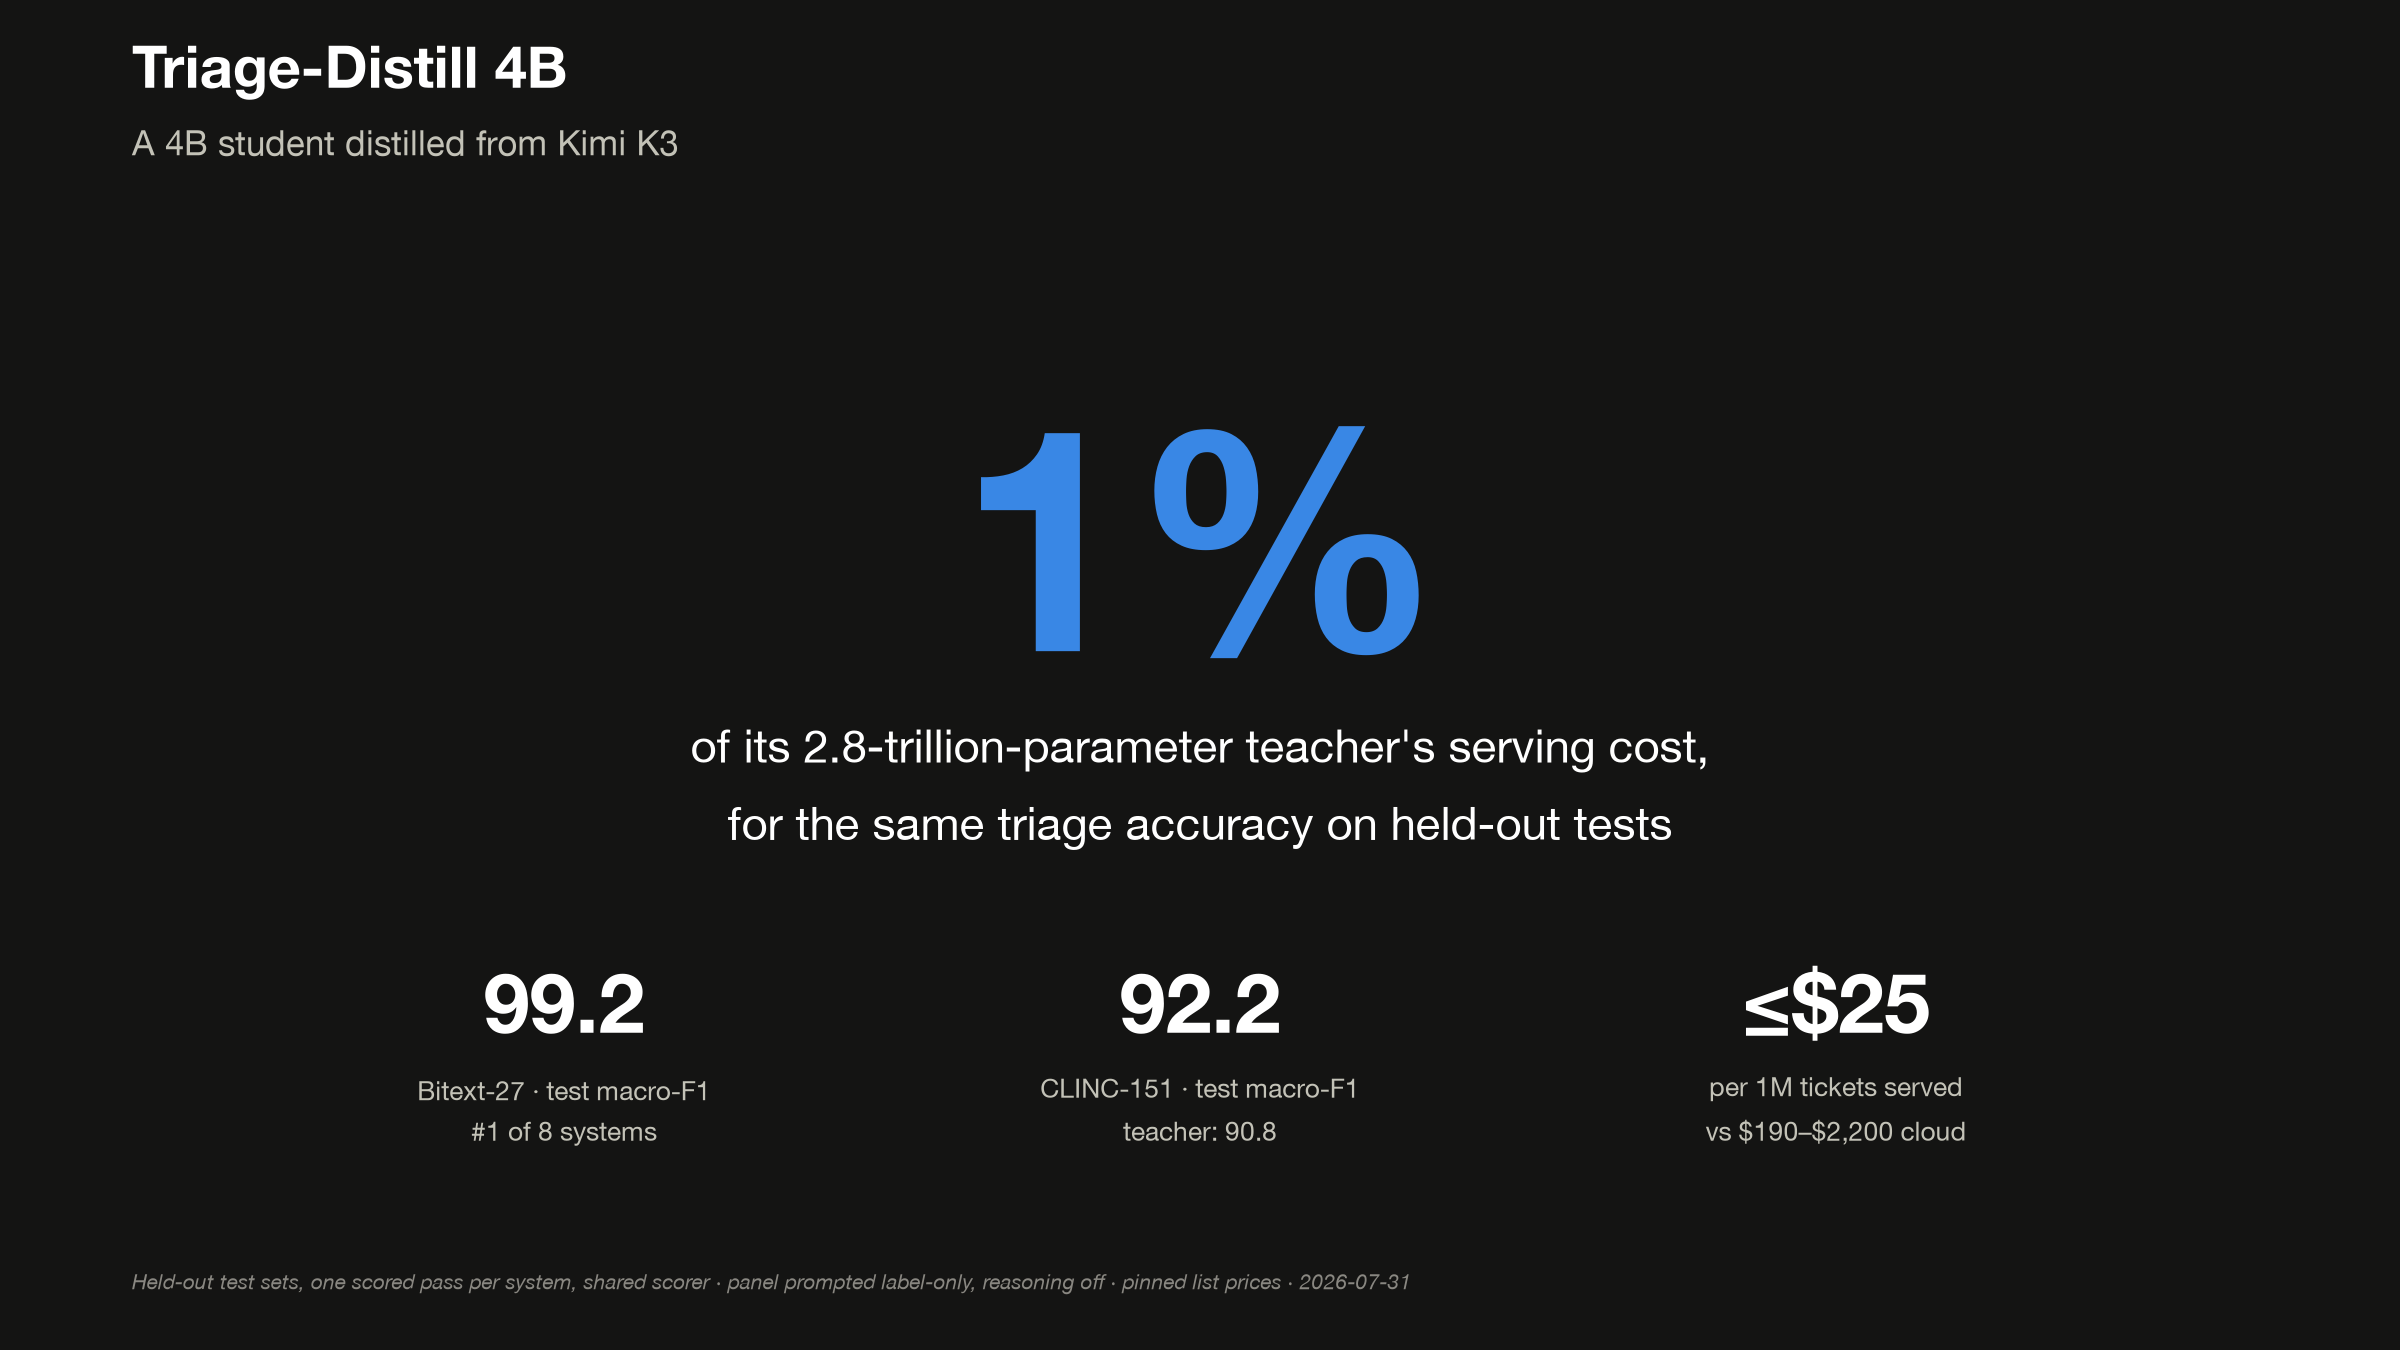
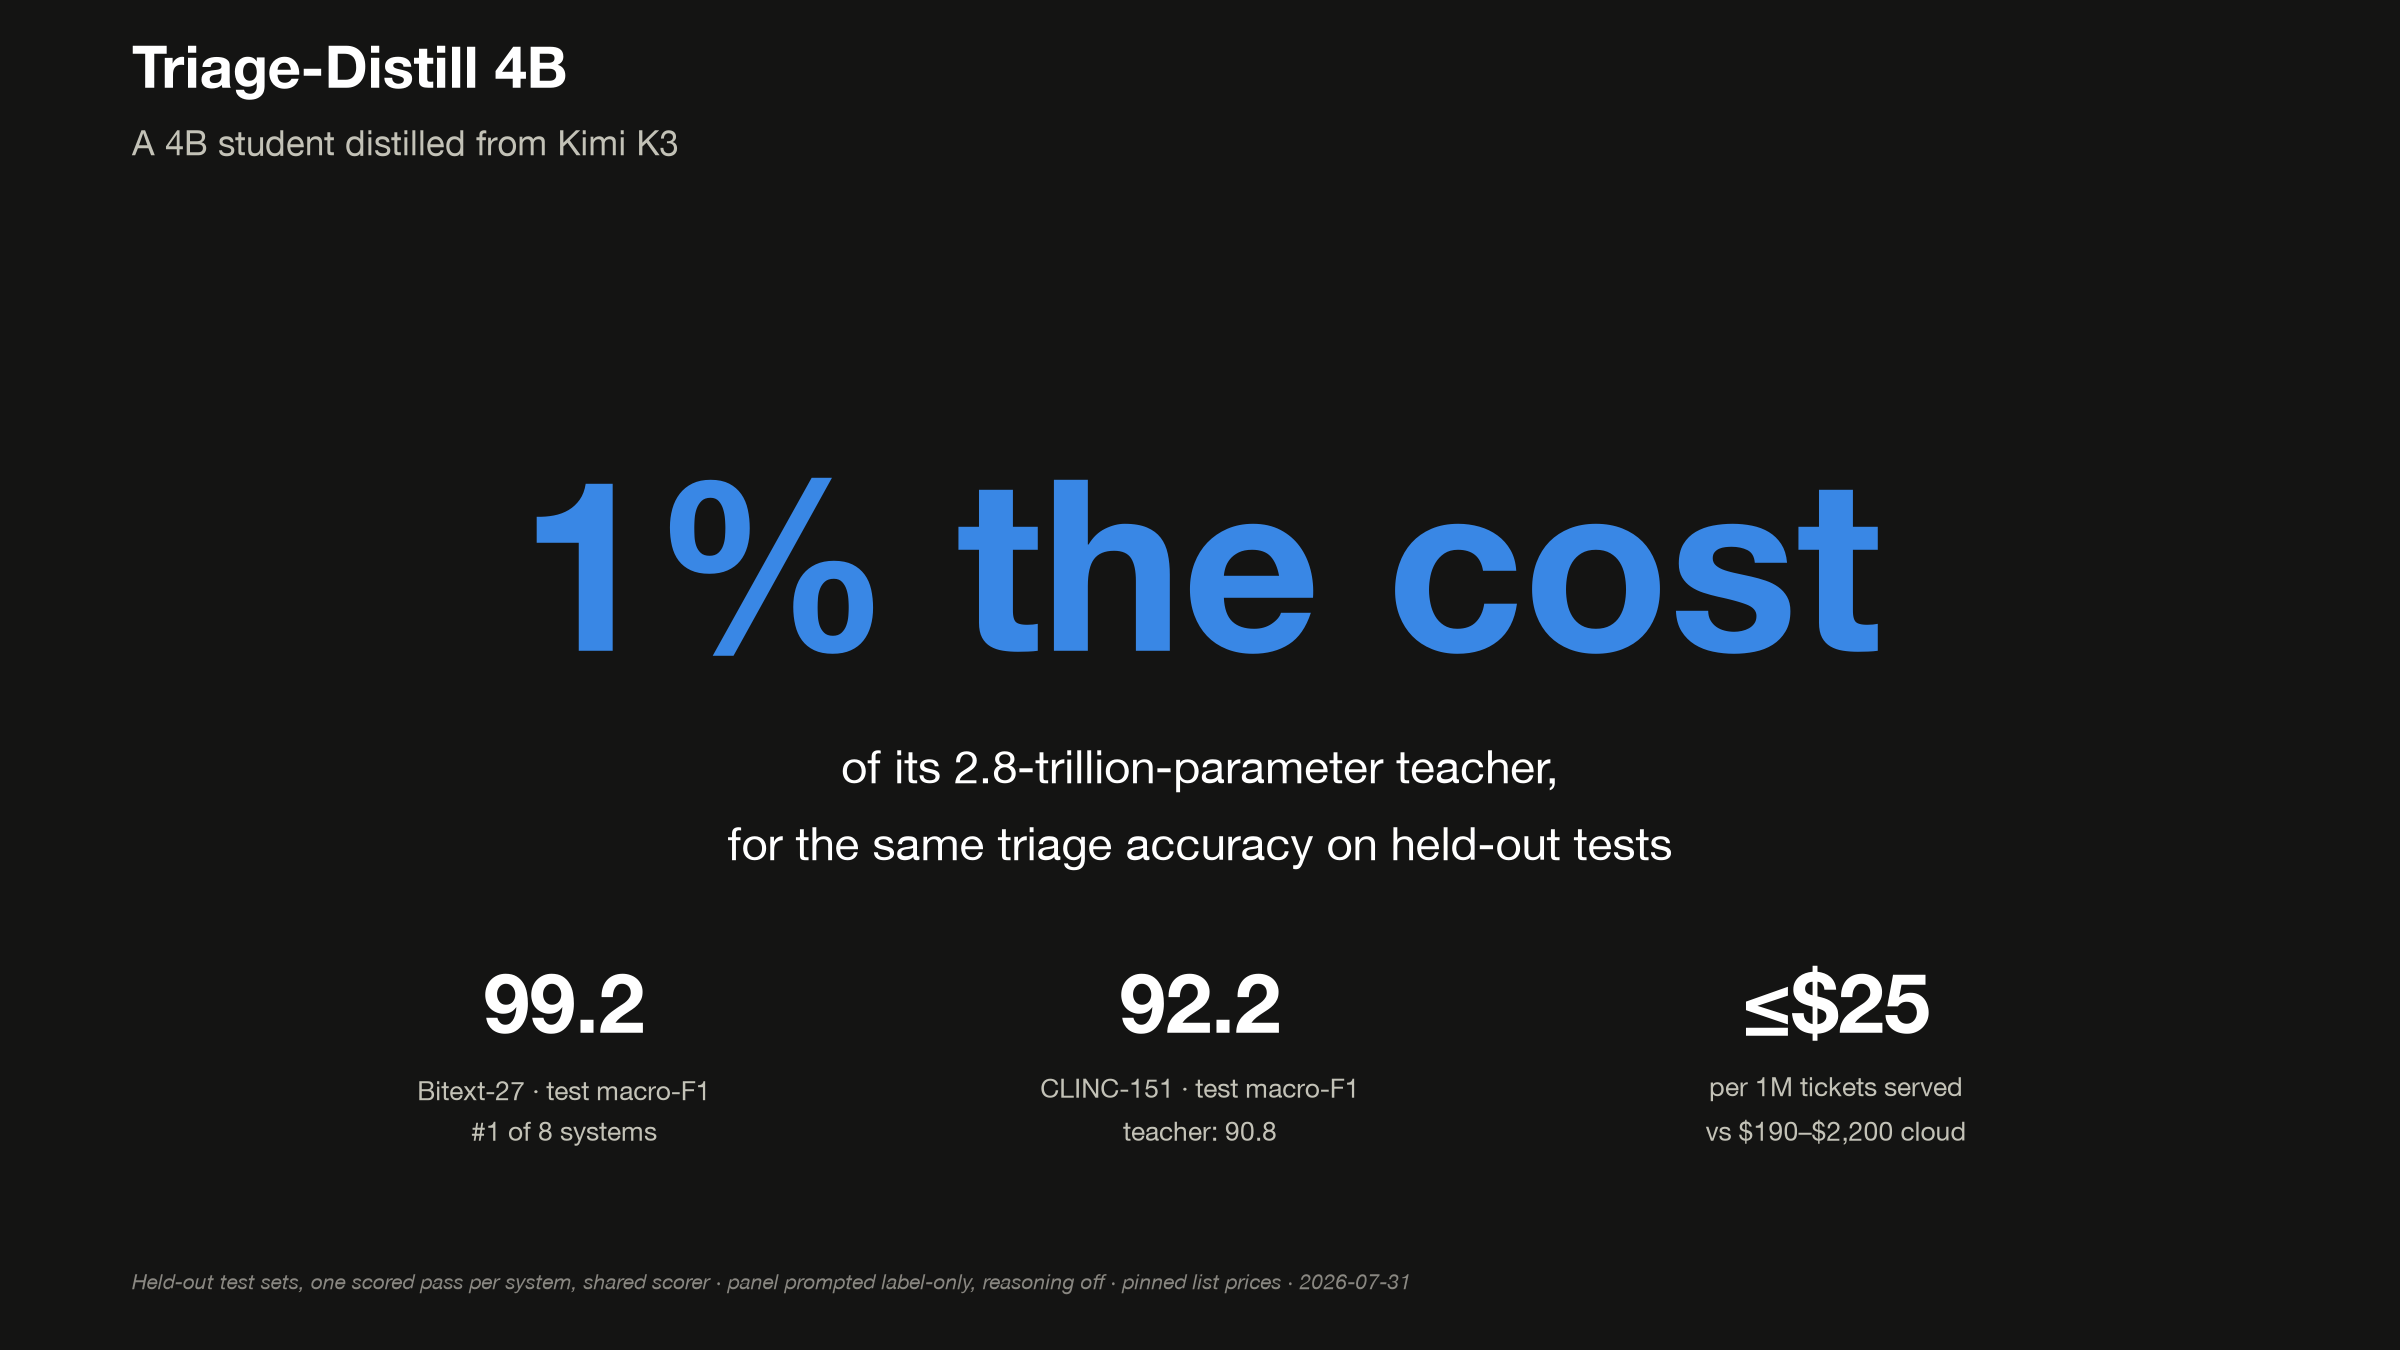
cards: card2 hero reads '1% the cost'
Blue hero phrase is now '1% the cost', with 'of its 2.8-trillion-parameter teacher, for the same triage accuracy on held-out tests' beneath it.

Changed region(s): [[0.375, 0.3111, 0.7812, 0.4978], [0.2812, 0.5289, 0.7188, 0.6533], [0.2188, 0.3422, 0.375, 0.4978]]

diff --git a/src/triage_distill/eval/render_release_cards.py b/src/triage_distill/eval/render_release_cards.py
@@ -93,9 +93,9 @@ def card1_bench():
 def card2_headline():
     fig = _fig()
     _brand(fig, "A 4B student distilled from Kimi K3")
-    fig.text(0.5, 0.605, "1%", fontsize=112, fontweight="bold", color=ACCENT,
+    fig.text(0.5, 0.585, "1% the cost", fontsize=86, fontweight="bold", color=ACCENT,
              ha="center", va="center")
-    fig.text(0.5, 0.415, "of its 2.8-trillion-parameter teacher's serving cost,\nfor the same triage accuracy on held-out tests",
+    fig.text(0.5, 0.40, "of its 2.8-trillion-parameter teacher,\nfor the same triage accuracy on held-out tests",
              fontsize=16.5, color=INK, ha="center", va="center", linespacing=1.45)
     stats = [("99.2", "Bitext-27 · test macro-F1\n#1 of 8 systems"),
              ("92.2", "CLINC-151 · test macro-F1\nteacher: 90.8"),
